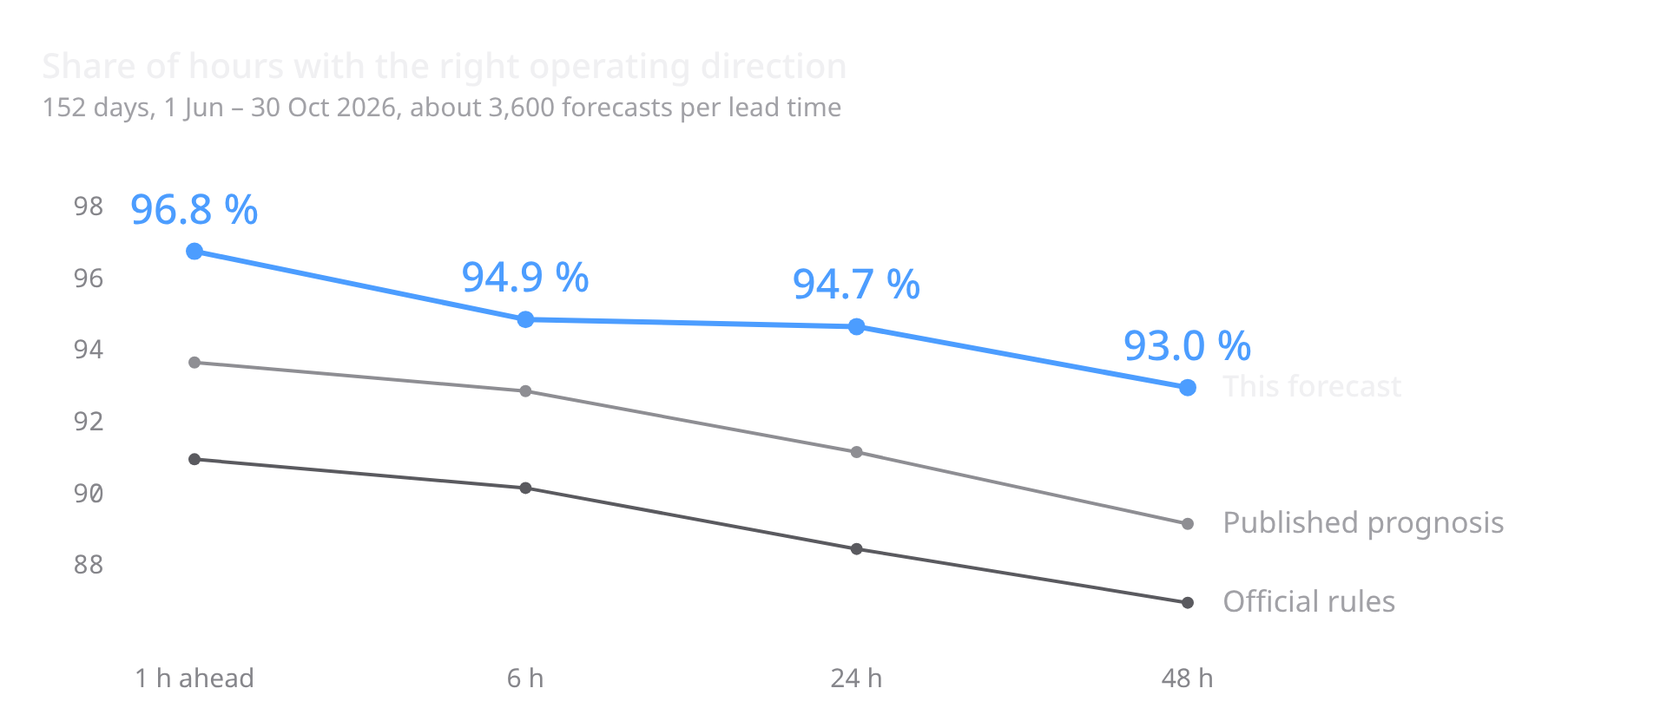
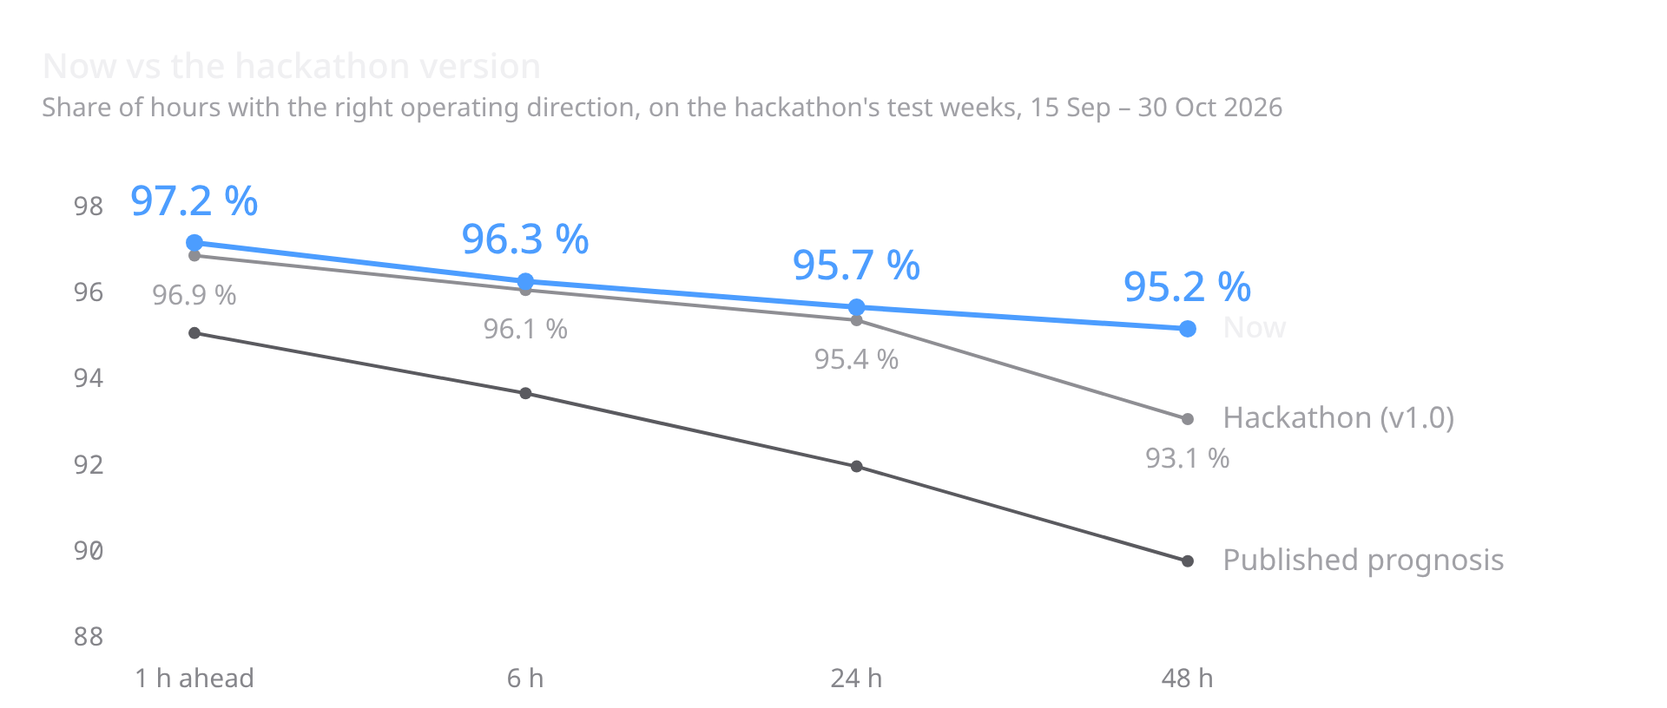
README: shorter, hero chart compares now with the hackathon version on the same weeks

diff --git a/assets/screenshots/accuracy.html b/assets/screenshots/accuracy.html
@@ -1,5 +1,6 @@
 <!doctype html><html><head><meta charset="utf-8"><style>
-/* README hero: accuracy by lead time, long test 1 Jun - 30 Oct 2026 (experiments/integration/final_eval_od.csv).
+/* README hero: now vs the hackathon version on the hackathon's own test weeks, 15 Sep - 30 Oct 2026.
+   Now and prognosis: experiments/integration/final_eval_od.csv (legacy_part); hackathon: experiments/eval_long/REPORT.md.
    Rendered to accuracy.png (light) and accuracy-dark.png (open with #dark) at 960 x 408, device scale 2. */
 *{box-sizing:border-box;margin:0}
 html,body{background:transparent}
@@ -13,21 +14,22 @@ svg{display:block;margin-top:12px;overflow:visible}
 .tick{font:400 15px "Noto Sans Mono",ui-monospace,monospace;fill:var(--ink3)}
 .lead{font:400 15px "Noto Sans",system-ui,sans-serif;fill:var(--ink3)}
 .val{font:500 24px "Noto Sans",system-ui,sans-serif;fill:var(--accent)}
+.hv{font:400 16px "Noto Sans",system-ui,sans-serif;fill:var(--ink2)}
 .name{font:400 17px "Noto Sans",system-ui,sans-serif;fill:var(--ink2)}
 .name.us{fill:var(--ink);font-weight:500}
 </style></head><body>
-<h1>Share of hours with the right operating direction</h1>
-<p>152 days, 1 Jun – 30 Oct 2026, about 3,600 forecasts per lead time</p>
+<h1>Now vs the hackathon version</h1>
+<p>Share of hours with the right operating direction, on the hackathon's test weeks, 15 Sep – 30 Oct 2026</p>
 <svg id="c" width="912" height="300"></svg>
 <script>
 if (location.hash == '#dark') document.documentElement.classList.add('dark');
 const leads = ['1 h ahead', '6 h', '24 h', '48 h'];
 const series = [
-  {name: 'Official rules', cls: 'rules', v: [91.0, 90.2, 88.5, 87.0]},
-  {name: 'Published prognosis', cls: 'prog', v: [93.7, 92.9, 91.2, 89.2]},
-  {name: 'This forecast', cls: 'us', v: [96.8, 94.9, 94.7, 93.0]},
+  {name: 'Published prognosis', cls: 'rules', v: [95.1, 93.7, 92.0, 89.8]},
+  {name: 'Hackathon (v1.0)', cls: 'prog', v: [96.9, 96.1, 95.4, 93.1]},
+  {name: 'Now', cls: 'us', v: [97.2, 96.3, 95.7, 95.2]},
 ];
-const X0 = 48, X1 = 660, Y0 = 36, Y1 = 284, LO = 86, HI = 98;
+const X0 = 48, X1 = 660, Y0 = 36, Y1 = 284, LO = 88, HI = 98;
 const x = i => X0 + 40 + i * (X1 - X0 - 40) / 3, y = v => Y1 - (v - LO) / (HI - LO) * (Y1 - Y0);
 const color = {rules: 'var(--rules)', prog: 'var(--prog)', us: 'var(--accent)'};
 let s = '';
@@ -41,6 +43,7 @@ for (const se of series) {
         points="${se.v.map((v, i) => `${x(i)},${y(v)}`).join(' ')}"/>`;
   se.v.forEach((v, i) => s += `<circle cx="${x(i)}" cy="${y(v)}" r="${us ? 5 : 3.5}" fill="${c}"/>`);
   if (us) se.v.forEach((v, i) => s += `<text class="val" x="${x(i)}" y="${y(v) - 16}" text-anchor="middle">${v.toFixed(1)} %</text>`);
+  if (se.cls == 'prog') se.v.forEach((v, i) => s += `<text class="hv" x="${x(i)}" y="${y(v) + 28}" text-anchor="middle">${v.toFixed(1)} %</text>`);
   const ly = y(se.v[3]);
   s += `<text class="name${us ? ' us' : ''}" x="${X1 + 20}" y="${ly + 5}">${se.name}</text>`;
 }

diff --git a/README.md b/README.md
@@ -2,40 +2,25 @@
 
 # Eastbound or Westbound?
 
-Frankfurt Airport's operating direction, forecast 48 hours ahead and issued every hour.
-
-Built in about 6 hours for the FraAlliance challenge at AI Week Frankfurt on 30 Oct 2026, improved since, and running live since 31 Oct 2026.
+Frankfurt Airport's operating direction, forecast 48 hours ahead and issued every hour. Built in about 6 hours at the FraAlliance challenge (AI Week Frankfurt, 30 Oct 2026) and improved since.
 
 > [!NOTE]
-> This is the improved version, not the hackathon submission. The version handed in on 30 Oct 2026 is the [v1.0-hackathon release](https://github.com/jonassneu/fraalliance-hackmeck/releases/tag/v1.0-hackathon), and its jury package stays unchanged in [`submission/`](submission/). See [what changed since](#what-changed-since-the-hackathon).
+> This is the improved version. The hackathon submission is the [v1.0-hackathon release](https://github.com/jonassneu/fraalliance-hackmeck/releases/tag/v1.0-hackathon) and stays unchanged in [`submission/`](submission/).
 
 <p align="center">
   <picture>
     <source media="(prefers-color-scheme: dark)" srcset="assets/screenshots/accuracy-dark.png">
-    <img src="assets/screenshots/accuracy.png" alt="Share of hours with the right operating direction, 1 Jun to 30 Oct 2026. This forecast: 96.8 % at 1 h, 94.9 % at 6 h, 94.7 % at 24 h, 93.0 % at 48 h ahead. Published prognosis: 93.7, 92.9, 91.2, 89.2 %. Official rules: 91.0, 90.2, 88.5, 87.0 %" width="720">
+    <img src="assets/screenshots/accuracy.png" alt="Now vs the hackathon version on the hackathon's test weeks, 15 Sep to 30 Oct 2026. Now: 97.2 % at 1 h, 96.3 % at 6 h, 95.7 % at 24 h, 95.2 % at 48 h ahead. Hackathon: 96.9, 96.1, 95.4, 93.1 %. Published prognosis: 95.1, 93.7, 92.0, 89.8 %" width="720">
   </picture>
 </p>
 
-The model was also designed on these 152 days, so the clean test is the [live record](#the-live-record-and-the-locked-test) from 1 Nov 2026.
+Same hours for both. The current version sees the last flown hour only once it is fully published, 1 h later than the hackathon version did. Both were designed on these weeks, so the [live record](#live-record) is the real test.
 
 ## Why it matters
 
-Frankfurt runs its whole runway system in one direction: westbound (OD 25) or eastbound (OD 07). When the wind turns, every runway switches at once. Strong north wind also closes Runway 18 West, which handles 6 out of 10 departures.
+Frankfurt flies all runways in one direction, westbound (OD 25) or eastbound (OD 07), and switches them all at once when the wind turns. Strong north wind also closes Runway 18 West, which handles 6 out of 10 departures. Today the switch is decided at short notice. Known 48 h ahead, Lufthansa and Fraport can plan connections, staff and ground handling around it.
 
-Today the switch is decided at short notice, once the wind has turned and a limit is reached. Known up to 48 h ahead, it can be planned:
-
-- Lufthansa can protect connections at its largest hub and plan flights ahead.
-- Fraport can pre-position staff and ground handling, and plan around a Runway 18 closure.
-
-For every hour up to 48 h ahead, the model gives the probability of each operating direction and of Runway 18 being available. It also gives the next likely change and a certainty score.
-
-| FRA at a glance | |
-| --- | --- |
-| Passengers (2025) | 63 M |
-| Flight movements per year | 460,000 (~1,260 per day) |
-| Direction changes per year | 156 |
-| Share of movements by direction | 61 % west (OD 25) · 39 % east (OD 07) |
-| Departures from Runway 18 West | 6 out of 10 |
+For each of the next 48 hours the forecast gives the chance of each direction, the chance Runway 18 is open, and the next likely change.
 
 ## The product
 
@@ -43,134 +28,71 @@ For every hour up to 48 h ahead, the model gives the probability of each operati
   <img src="assets/screenshots/live-3d.png" alt="3D view of Frankfurt Airport showing the forecast operating direction, active runways and the 48-hour timeline" width="100%">
 </p>
 
-The 3D view shows which way traffic flows now, which runways handle arrivals and departures, whether Runway 18 West is open, and a 48-hour timeline to scrub through.
-
 <p align="center">
   <img src="assets/screenshots/dashboard.png" alt="Forecast dashboard: current direction, next change, Runway 18 status, the next 48 hours, alerts, the live record and the 3D view" width="100%">
 </p>
 
-The dashboard shows the current direction with its confidence, the next likely change, Runway 18 availability, and each of the next 48 hours next to the published prognosis and the wind. It is rebuilt every hour from the newest forecast, with alerts (direction change within 12 h, Runway 18 closure risk within 24 h) and the live record. A second page, Model, explains how good the forecast is, how it works and how it was tested.
-
-To try the hackathon version without installing anything, open [`submission/dashboard.html`](submission/dashboard.html) in a browser. It works offline, and the 3D view is [`submission/airport3d.html`](submission/airport3d.html).
+The 3D view and the dashboard are rebuilt every hour from the newest forecast, with alerts and the live record. The hackathon version runs offline: open [`submission/dashboard.html`](submission/dashboard.html).
 
 ## Results
 
-Accuracy of the operating direction, scored against the direction actually flown. Walk-forward test 1 Jun – 30 Oct 2026, 152 days, ~3,600 forecasts per lead time.
+Walk-forward test over 152 days, 1 Jun – 30 Oct 2026, scored against the direction actually flown.
 
-| Lead time | This forecast | Published Umwelthaus prognosis | Official rules (case section 3) | No change (persistence) |
+| Lead time | This forecast | Published prognosis | Official rules | No change |
 | --- | ---: | ---: | ---: | ---: |
 | 1 h | **96.8 %** | 93.7 % | 91.0 % | 94.4 % |
 | 6 h | **94.9 %** | 92.9 % | 90.2 % | 87.7 % |
 | 24 h | **94.7 %** | 91.2 % | 88.5 % | 75.3 % |
 | 48 h | **93.0 %** | 89.2 % | 87.0 % | 65.7 % |
 
-- Ahead of the published prognosis at every lead time, by 2.0 to 3.8 points, and the 95 % confidence interval of every difference excludes zero. The probabilities are sharper too: Brier score 0.039 vs 0.082 for the prognosis (1, 6, 24 and 48 h; lower is better).
-- The next direction change is right 80 % of the time, counting correct “no change” calls and changes predicted within ±3 h. The prognosis gets 70 %, the official rules 62 %. The model catches 65 % of changes within ±3 h, with a mean timing error of 1.2 h, and raises 49 false alarms in 3,420 forecasts where the rules raise 516.
-- Runway 18 closures are rare in the test period, so the edge over “always open” is not yet statistically clear there. On 12 years of radar history (850 closures since 2015) the closure model warns ahead of two thirds of closures with about 9 false alarms per 1,000 h; the official rules warn ahead of 17–20 % ([experiments/history12/](experiments/history12/REPORT.md)).
-- Short-notice switches are the weak spot. When the direction changes within the next hour, every method, this one included, is right only 54–59 % of the time.
+- Ahead of the published prognosis at every lead time, with 95 % confidence intervals that exclude zero. Brier score 0.039 vs 0.082.
+- The next direction change is right 80 % of the time (prognosis 70 %, rules 62 %).
+- Weak spot: when the direction changes within the next hour, every method is right only 54–59 % of the time.
 
-Full tables, key drivers and limitations are in the [model card](MODEL_CARD.md).
+Details in the [model card](MODEL_CARD.md).
 
 ## What changed since the hackathon
 
-
 | | Hackathon (v1.0) | Now |
 | --- | --- | --- |
-| Forecast | Logistic regression | 50/50 blend: logistic regression + an hour-by-hour decision model run along 200 simulated wind futures |
-| Test | 7 autumn weeks (15 Sep – 30 Oct 2026), no error bars | 152 days (1 Jun – 30 Oct 2026) with confidence intervals, plus a locked live holdout from 1 Nov 2026 |
-| Current direction | Radar hour that had just ended, which is not yet fully published at forecast time | Last radar hour that is completely published at forecast time, as it is live |
-| Training labels | Hourly only in the test period, 3–6 sampled hours per day before it | Every hour since Feb 2026; every daytime hour 2014 – 2026 collected for research |
-| Weather inputs | ECMWF + ICON-D2 (missing at the longest lead times) | ECMWF + ICON-D2, filled with ICON-EU; trained on all 48 lead times |
-| Operation | Forecast run by hand | Issued every hour from a frozen, tested code snapshot; old models run alongside as shadows; live record, alerts, backups, a second attempt at :50 when a data source is down |
+| Forecast | Logistic regression | Logistic regression averaged with an hour-by-hour decision model run on 200 simulated wind futures |
+| Test | 7 autumn weeks | 152 days with confidence intervals, plus a locked live holdout |
+| Last flown hour | Used before it is fully published | Used once fully published, as in live use |
+| Training labels | Sampled hours before the test weeks | Every hour since Feb 2026; 12 years collected for research |
+| Operation | Run by hand | Every hour from a frozen code snapshot, older versions alongside, alerts, a retry at :50 |
 
-The hackathon numbers (96.9 / 96.1 / 95.4 / 93.1 % at 1 / 6 / 24 / 48 h) came from an easier test: autumn weeks only, with the last flown hour known earlier than it really is. Today's (96.8 / 94.9 / 94.7 / 93.0 %) are not comparable with them. On the same test and the same inputs, today's forecast is about 10 % better in Brier score than the logistic model alone, and +1.3 points more accurate at 1 h. The full record of decisions is in [research/conclusion.md](research/conclusion.md) and the studies in [experiments/](experiments/).
+## Live record
 
-## The live record and the locked test
-
-Since 31 Oct 2026 the forecast runs on its own, every hour. Each forecast is archived with its inputs before the outcome exists, and scored against the radar about 3 hours after the hour is flown. Forecasts issued from 1 Nov 2026 00:00 UTC form a locked holdout: the models, the code and the comparison are frozen and written down in advance ([experiments/integration/preregistration.json](experiments/integration/preregistration.json)). The first verdict comes after 4 weeks, on 1 Dec 2026.
-
-Four variants run next to the official forecast in the same hour, for comparison:
-
-- the logistic model alone
-- the previous official system
-- the hackathon model
-- since 3 Nov 2026, the blend with a decision model trained on 12 years of radar history ([own pre-registration](experiments/integration/preregistration_hist12.json))
+Since 31 Oct 2026 every forecast is archived before the outcome exists and scored about 3 h after the hour is flown. Forecasts from 1 Nov 2026 form a locked holdout, set out in advance in the [pre-registration](experiments/integration/preregistration.json). Four other versions, the hackathon model among them, run alongside. First verdict on 1 Dec 2026.
 
 ## How it works
 
-1. **Labels.** The flown direction comes from radar tracks. An aircraft below 3,000 ft within 15 km of the airport heading ~250° means OD 25, and heading ~070° means OD 07. A southbound departure west of the field is a Runway 18 departure.
-2. **Inputs** for each forecast hour, 1–48 h ahead:
-   - the tailwind on runway 25 from ECMWF and DWD ICON (ICON-D2, filled with ICON-EU at the longest lead times), hourly and smoothed, at 10 m and 100 m;
-   - a wind-regime indicator (NE "Bise" or SE pre-frontal easterly);
-   - the official rule applied to the forecast;
-   - the published Umwelthaus prognosis;
-   - the direction flown most recently;
-   - the time of day, including the night ban.
-3. **Two models**, averaged 50/50:
-   - a regularised logistic regression with separate weights for short and long lead times, retrained on the most recent 120 days, with calibrated probabilities;
-   - an hour-by-hour decision model: given the actual wind and the direction in use, how likely is the airport to keep it for the next hour? It is run forward hour by hour along 200 simulated wind futures. These are today's forecast plus the forecast errors seen in similar past situations, so they show how the wind might really turn out.
-4. **Runway 18 model.** A logistic regression on the official rule, gust and mean tailwind on runway 18, the observed wind, and current use.
-5. **Why this design.** About 60 variants were tried at the hackathon and about 60 more since (boosting, longer training windows, more lead-time groups, extra inputs). Most did not help. The decision model on simulated wind is the one addition with a clear gain on the long test: Brier score 0.039 vs 0.043 for the logistic model alone. See [experiments/](experiments/) and the decision log in [research/conclusion.md](research/conclusion.md).
+- **Labels.** The flown direction comes from radar tracks: aircraft below 3,000 ft near the field heading about 250° (OD 25) or 070° (OD 07).
+- **Inputs.** Tailwind forecasts from ECMWF and DWD ICON, the official rule, the published Umwelthaus prognosis, the last flown direction and the time of day.
+- **Models.** A logistic regression on the last 120 days, averaged with an hour-by-hour decision model run along 200 simulated wind futures.
+- **Testing.** Only data available at forecast time, walk-forward week by week, confidence intervals from resampling whole days.
 
-### How accuracy was measured
-
-- Only data available at forecast time. For a forecast issued at time *t*, the model sees:
-  - weather model runs started at least 6 h (ECMWF), 4 h (ICON-D2) or 5 h (ICON-EU) before *t*;
-  - the Umwelthaus prognosis as it was published at *t*;
-  - METAR weather reports up to *t*;
-  - the direction flown in the last radar hour that is completely published at *t*. The radar data arrive about an hour late, so this is the hour from *t* − 2 h to *t* − 1 h.
-- Walk-forward testing: each test week is predicted by models trained only on outcomes known before it.
-- Truth is what was actually flown, taken from radar tracks. Every method is scored on exactly the same hours, with 95 % confidence intervals from resampling whole days.
-- Separate reviews searched the code for look-ahead bugs; everything they found was fixed before these numbers were produced.
+About 120 variants were tried; see [experiments/](experiments/) and the [decision log](research/conclusion.md).
 
 ## Data
 
-All public and self-sourced, as the challenge required. The downloaded archives are not part of the repository; the pipeline fetches them into `data/`.
-
-| Data | Source | Coverage |
-| --- | --- | --- |
-| Flown direction and Runway 18 use (labels) | Umwelthaus INAA / FANOMOS radar tracks, [inaa.umwelthaus.org](https://inaa.umwelthaus.org/) | every daytime hour 2014 – Oct 2026, plus every live hour since |
-| Weather forecasts as issued | [Open-Meteo Single Runs](https://open-meteo.com/en/docs/single-runs-api): ECMWF IFS (10 m and 100 m wind) | Mar 2024 – Oct 2026 |
-| Second weather model | Open-Meteo Single Runs: DWD ICON-D2 and ICON-EU | Apr – Oct 2026 |
-| Earlier forecast vintages | [Open-Meteo Previous Runs](https://open-meteo.com/en/docs/previous-runs-api) (best match ≈ DWD ICON), issued ≥ 1 day before | 2024 – Oct 2026 |
-| Published direction prognosis | Umwelthaus INAA, as published each hour | Apr 2016 – Oct 2026 |
-| Observed weather | [Iowa Environmental Mesonet](https://mesonet.agron.iastate.edu/request/download.phtml) METAR EDDF | 2014 – Oct 2026 |
-| Reanalysis weather (research only, never a forecast input) | Open-Meteo Historical Weather: ERA5 | 2014 – Oct 2026 |
-| Airport geometry (3D view only) | © [OpenStreetMap](https://www.openstreetmap.org/copyright) contributors, ODbL | – |
-| Live aircraft (3D view; archived every 5 minutes since 3 Nov 2026 for research) | [The OpenSky Network](https://opensky-network.org/) REST API | live |
-
-Weather data by [Open-Meteo.com](https://open-meteo.com/) (CC BY 4.0). The radar labels match all 16 officially published west/east figures for 2014–2025 within 3 points (full-year shares within 0.2 points); see [experiments/history12/](experiments/history12/REPORT.md). The 12-year history is not used by the official forecast yet: adding it to the decision model gave a gain too small to tell from noise on the test period.
-
-## Repository layout
-
-| Path | Contents |
+| Data | Source |
 | --- | --- |
-| [`fra/`](fra) | The pipeline, one module per step (see below) |
-| [`ops/`](ops) | Live operation: frozen runtimes, hourly job, variants, backups ([ops/README.md](ops/README.md), [ops/RUNTIME.md](ops/RUNTIME.md)) |
-| [`tests/`](tests) | Unit tests for the official decision rules, checked against the worked examples in the case |
-| [`experiments/`](experiments) | Walk-forward research harness, the four hackathon studies, and the studies since: long test (`eval_long`), decision model (`parta`), wind futures (`partb`), retests (`phase2`), the blend and holdout plan (`integration`), 12-year history (`history12`) |
-| [`research/`](research) | Background research from the start of the day and the decision log |
-| [`submission/`](submission) | The package handed to the jury on 30 Oct 2026: 48 h forecast, dashboard, model card, evaluation tables |
-| [`site/`](site) | Generated web pages: dashboard (`index.html`), model page (`model.html`), 3D view (`airport3d.html`) |
-| [`web/`](web) | Source of the 3D airport view (three.js) |
-| [`docs/`](docs) | The challenge brief ([FraAlliance_Case.pdf](docs/FraAlliance_Case.pdf)) |
-| [`assets/`](assets) | Icon and README images |
+| Flown direction (labels) | Umwelthaus INAA / FANOMOS radar tracks, [inaa.umwelthaus.org](https://inaa.umwelthaus.org/), 2014 – today |
+| Weather forecasts as issued | [Open-Meteo](https://open-meteo.com/) Single Runs: ECMWF IFS, DWD ICON-D2 and ICON-EU |
+| Published prognosis | Umwelthaus INAA, as published each hour |
+| Observed weather | [Iowa Environmental Mesonet](https://mesonet.agron.iastate.edu/request/download.phtml), METAR EDDF |
+| Airport geometry | © [OpenStreetMap](https://www.openstreetmap.org/copyright) contributors, ODbL |
+| Live aircraft | [The OpenSky Network](https://opensky-network.org/) |
 
-| Step | Module (`fra/`) | Output |
-| --- | --- | --- |
-| Labels | `labels.py`, `history.py` | Radar tracks → flown direction and Runway 18 use per hour (`data/labels.parquet`); 12-year backfill |
-| Weather | `weather.py`, `singleruns.py`, `singleruns_icon.py`, `singleruns_iconeu.py`, `era5.py` | METAR observations; ECMWF IFS, ICON-D2 and ICON-EU runs as issued; ERA5 for research |
-| Published prognosis | `prognosis.py` | The Umwelthaus prognosis as it was published at each hour |
-| Rules baseline | `rules.py` | Wind components and the official decision rules (case section 3) |
-| Features | `dataset.py` | One row per (issue time, lead time), using only data available at the issue time |
-| Models and evaluation | `train.py`, `decision.py`, `fcerror.py`, `blend.py`, `changetime.py`, `evalkit.py` | Logistic model, hour-by-hour decision model, simulated wind futures, the blend, next-change timing, walk-forward evaluation with confidence intervals |
-| Forecast | `predict.py`, `blend.py` | 48 h forecast, for now or any past issue time |
-| Live operation | `archive.py`, `scoring.py`, `alerts.py` | Hourly archive and forecast, live record, alerts |
-| Outputs | `dashboard.py`, `modelpage.py`, `scene3d.py`, `live.py`, `trackrecord.py`, `report.py`, `submit.py` | Dashboard, model page, 3D view, live feed, 14-day track record, model card, submission package |
+All public. Weather data by Open-Meteo.com (CC BY 4.0).
 
-## Reproduce the pipeline
+## Run it
 
-Requires Python 3.12 and [uv](https://docs.astral.sh/uv/). Every download step can be resumed. The radar labels are the slow part: the archive answers about 0.4 requests per second, so the 12-year history takes about two days.
+Python 3.12 and [uv](https://docs.astral.sh/uv/). `uv sync && uv run pytest` runs the unit tests. The forecast needs the data downloaded first; the radar labels are the slow part, about two days for the 12-year history.
+
+<details>
+<summary>Full pipeline and live operation</summary>
 
 ```bash
 uv sync
@@ -211,18 +133,47 @@ uv run python -m fra.scoring                   # live record -> data/archive/liv
 systemctl --user list-timers 'fra-*'           # the hourly timer
 ```
 
+</details>
+
+<details>
+<summary>Repository layout</summary>
+
+| Path | Contents |
+| --- | --- |
+| [`fra/`](fra) | The pipeline, one module per step (see below) |
+| [`ops/`](ops) | Live operation: frozen runtimes, hourly job, variants, backups ([ops/README.md](ops/README.md), [ops/RUNTIME.md](ops/RUNTIME.md)) |
+| [`tests/`](tests) | Unit tests for the official decision rules, checked against the worked examples in the case |
+| [`experiments/`](experiments) | Walk-forward research harness, the four hackathon studies, and the studies since: long test (`eval_long`), decision model (`parta`), wind futures (`partb`), retests (`phase2`), the blend and holdout plan (`integration`), 12-year history (`history12`) |
+| [`research/`](research) | Background research from the start of the day and the decision log |
+| [`submission/`](submission) | The package handed to the jury on 30 Oct 2026: 48 h forecast, dashboard, model card, evaluation tables |
+| [`site/`](site) | Generated web pages: dashboard (`index.html`), model page (`model.html`), 3D view (`airport3d.html`) |
+| [`web/`](web) | Source of the 3D airport view (three.js) |
+| [`docs/`](docs) | The challenge brief ([FraAlliance_Case.pdf](docs/FraAlliance_Case.pdf)) |
+| [`assets/`](assets) | Icon and README images |
+
+| Step | Module (`fra/`) | Output |
+| --- | --- | --- |
+| Labels | `labels.py`, `history.py` | Radar tracks → flown direction and Runway 18 use per hour (`data/labels.parquet`); 12-year backfill |
+| Weather | `weather.py`, `singleruns.py`, `singleruns_icon.py`, `singleruns_iconeu.py`, `era5.py` | METAR observations; ECMWF IFS, ICON-D2 and ICON-EU runs as issued; ERA5 for research |
+| Published prognosis | `prognosis.py` | The Umwelthaus prognosis as it was published at each hour |
+| Rules baseline | `rules.py` | Wind components and the official decision rules (case section 3) |
+| Features | `dataset.py` | One row per (issue time, lead time), using only data available at the issue time |
+| Models and evaluation | `train.py`, `decision.py`, `fcerror.py`, `blend.py`, `changetime.py`, `evalkit.py` | Logistic model, hour-by-hour decision model, simulated wind futures, the blend, next-change timing, walk-forward evaluation with confidence intervals |
+| Forecast | `predict.py`, `blend.py` | 48 h forecast, for now or any past issue time |
+| Live operation | `archive.py`, `scoring.py`, `alerts.py` | Hourly archive and forecast, live record, alerts |
+| Outputs | `dashboard.py`, `modelpage.py`, `scene3d.py`, `live.py`, `trackrecord.py`, `report.py`, `submit.py` | Dashboard, model page, 3D view, live feed, 14-day track record, model card, submission package |
+
+</details>
+
 ## Limitations
 
-- The long test was also used for design. The 1 Jun – 30 Oct 2026 numbers flatter the model somewhat; the locked live holdout from 1 Nov 2026 is the clean test.
-- One summer and autumn. Winter regimes are only in the training data so far.
-- Short-notice switches stay hard for every method.
+- The long test was also used for design; the live holdout is the clean test.
+- One summer and autumn so far, no winter test yet.
 - Runway 18 “closed” is a proxy: no southbound departures in a busy hour.
-- External sources can fail. The Umwelthaus prognosis has been blank for a few hours some nights, and Open-Meteo was unavailable for two hours on 2 Nov 2026. Since 4 Nov 2026 the hourly job tries again at :50 when the hour's forecast is missing; affected hours are logged and every variant sees the same inputs.
 
 ## Next steps
 
-- Judge the blend against the logistic model and the hackathon model on the locked holdout (first verdict 1 Dec 2026), and the 12-year shadow variant against the blend (first look 1 Dec, decision by 31 Dec 2026).
-- Use the live aircraft positions as a real-time "current direction" input, the main lever for short-notice switches, once a few weeks of snapshots exist; tested first as a pre-registered shadow.
-- Use the ECMWF ensemble spread in the simulated wind futures, and the 12-year Runway 18 closure model, once both have been tested on live hours.
+- Holdout verdicts on 1 Dec 2026.
+- Live aircraft positions as a real-time input for short-notice switches.
 
-[Model card](MODEL_CARD.md) · [Design decisions](research/conclusion.md) · [Experiments](experiments/) · [Live operation](ops/README.md) · [Submission package](submission/)
+[Model card](MODEL_CARD.md) · [Decision log](research/conclusion.md) · [Experiments](experiments/) · [Live operation](ops/README.md) · [Submission](submission/)
